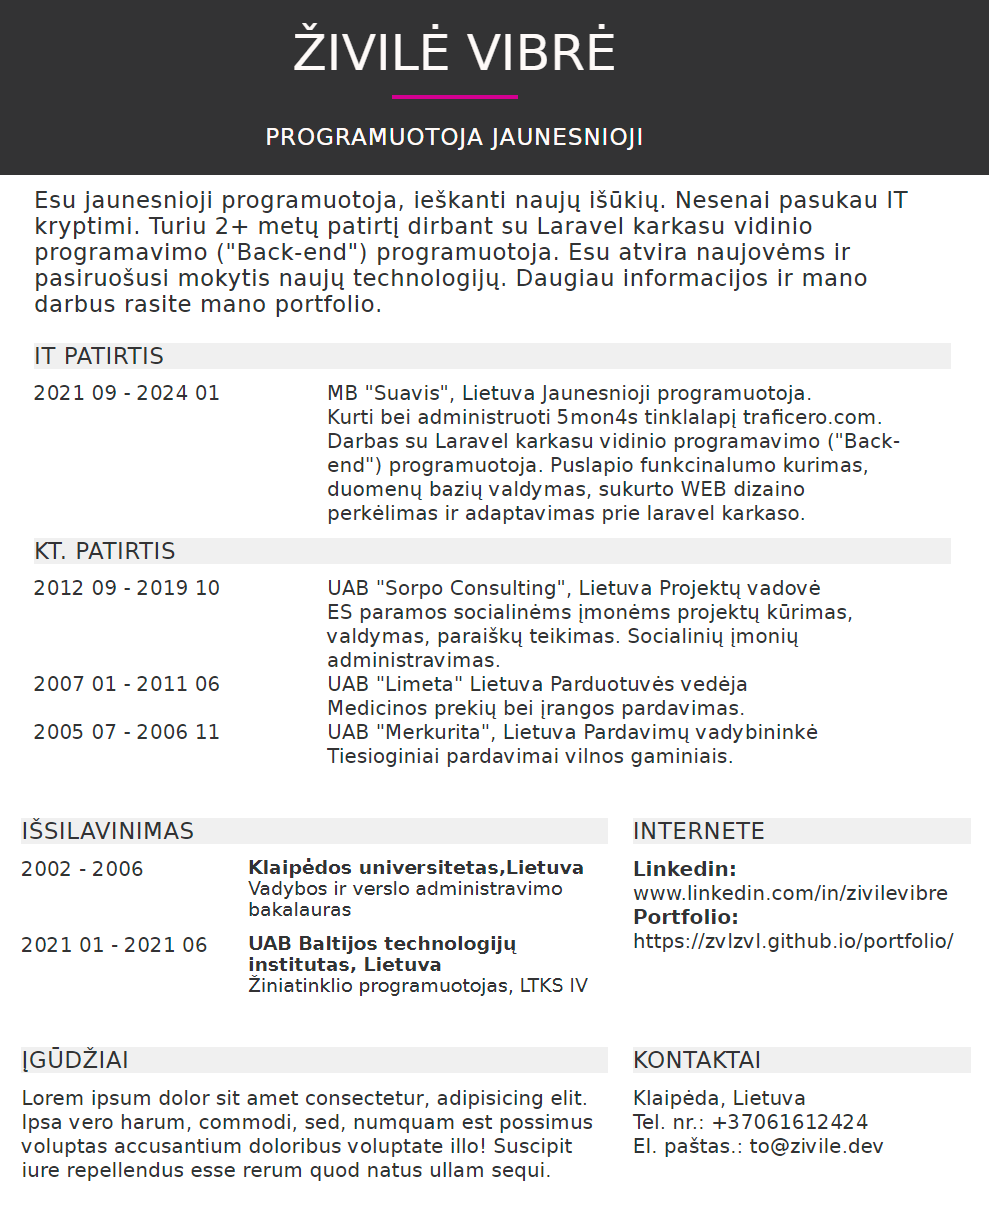
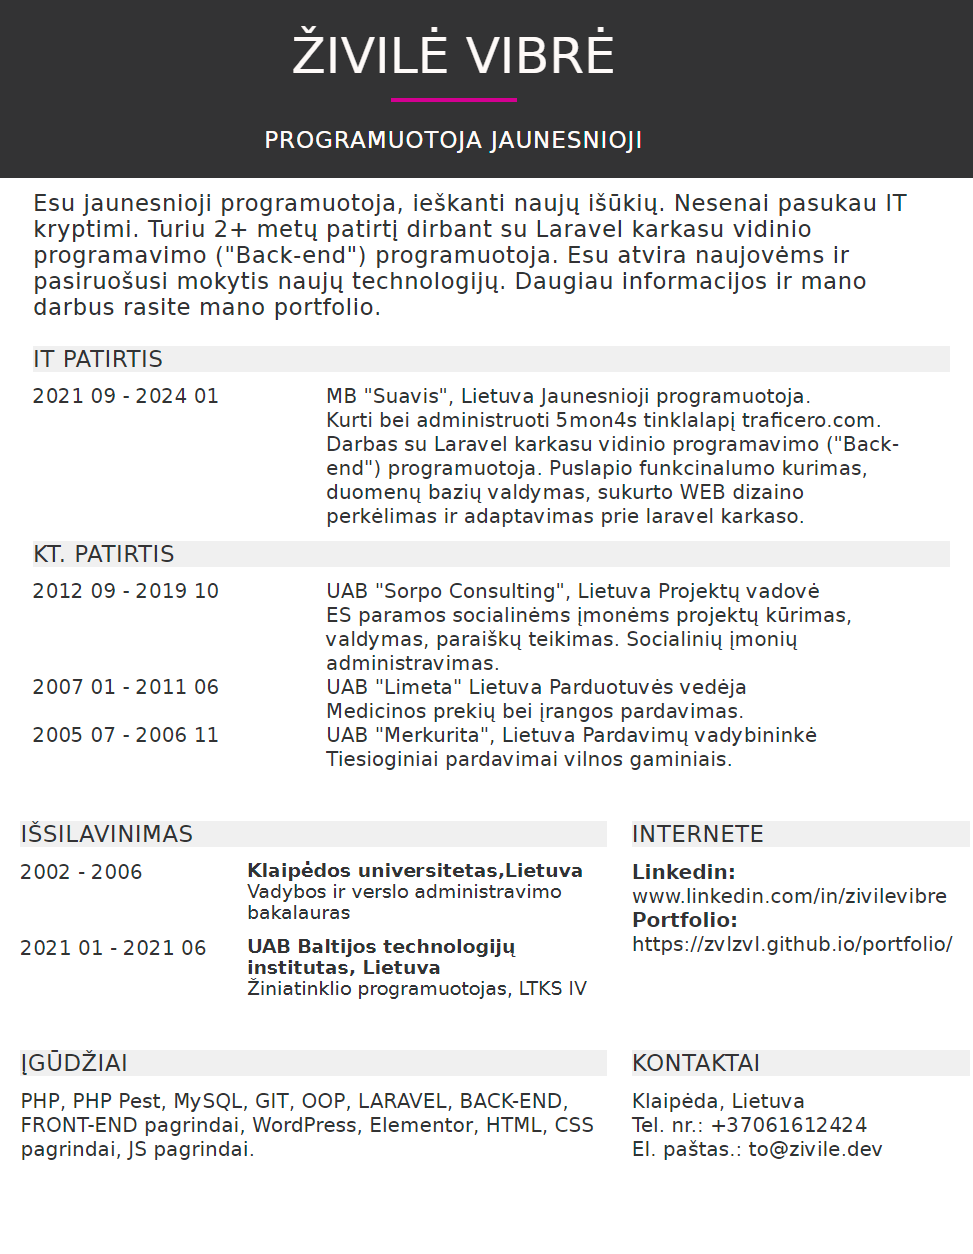
cv open

diff --git a/cv.html b/cv.html
@@ -183,9 +183,8 @@
                                     <h4 class="cv cv-border bg">
                                         ĮGŪDŽIAI
                                     </h4>
-                                    <div> Lorem ipsum dolor sit amet consectetur, adipisicing elit. Ipsa vero harum,
-                                        commodi, sed, numquam est possimus voluptas accusantium doloribus voluptate
-                                        illo! Suscipit iure repellendus esse rerum quod natus ullam sequi.
+                                    <div>PHP, PHP Pest, MySQL, GIT, OOP, LARAVEL, BACK-END, FRONT-END pagrindai, WordPress, Elementor,
+                                        HTML, CSS pagrindai, JS pagrindai.
                                     </div>
                                 </div>
                                 <div class="col-5 m-0">

diff --git a/index.html b/index.html
@@ -44,7 +44,7 @@
                             <a href="#about">Apie mane</a>
                             <a href="#work">Portfolio</a>
                             <a href="#contacts">Kontaktai</a>
-                            <!-- <a href="cv.html">CV</a> -->
+                            <a href="cv.html">CV</a>
                         </div>
 
                         <a href="javascript:void(0);" class="icon" onclick="menuLinks()">
